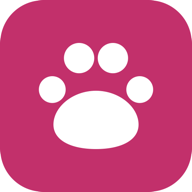
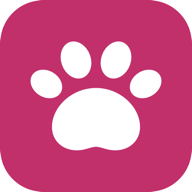
Redraw the paw, and set the name in the serif
The name is now set in Fraunces. That looks like it breaks the rule that the
serif means Dutch — but *doei* is a Dutch word, and reading it as one is the
whole point of calling the app that, so it belongs with the material rather
than with the furniture. Screen headings around it stay in the sans: they
are English, and they are interface.

The mark was four circles and a wide flat ellipse, at hand-picked
coordinates. Two of the circles overlapped, the gaps between the rest were
all different, and the pad met the outer toes — so it read as dots over a
blob rather than as a paw, and the bigger it was drawn the worse it got.

A paw is five separate shapes, which is a lot for something that has to
survive being 16px in a browser tab, and what holds it together is the
negative space. So the toes now sit on one arc at even angles, they are
ellipses turned to point along that arc rather than circles, and they are
graded — the middle pair larger, as a real paw is. The pad is a rounded
triangle on a wide base with a shallow dip in it: a sixth of a unit, so it
is invisible at favicon size and is what stops it being a blob beside the
app's name. The whole mark is centred on what is drawn rather than on the
box, so it doesn't hang low against text set next to it.

It is drawn larger everywhere: 38px beside the name, 80px on the opening
tile, and two thirds of the width of the installed app's icon, which is
regenerated from the same geometry.

diff --git a/src/core/paw.ts b/src/core/paw.ts
@@ -2,21 +2,69 @@
 // The app mark's geometry, kept here rather than in the UI layer so the
 // favicon (which core owns, alongside the theme) and the React component can
 // share one definition. Nothing in core imports from ui.
+//
+// A paw is five separate shapes, which is a lot for a mark that has to survive
+// being 16px in a browser tab. What holds it together is the negative space:
+// the gaps between the toes, and between the toes and the pad, are the thing
+// the eye actually reads. So the toes sit on one arc at even angles rather
+// than at hand-picked coordinates, they are ellipses turned to point along
+// that arc rather than circles, and they are graded — the two in the middle
+// larger than the two at the edges, as a real paw is.
+//
+// Drawn to fill the box with a hair of margin, because a mark that floats in
+// the middle of its own frame reads as small next to text set solid.
 // ---------------------------------------------------------------------------
 
-export const PAW_TOES = [
-  { cx: 4.6, cy: 11.6, r: 2.3 },
-  { cx: 9.2, cy: 6.2, r: 2.6 },
-  { cx: 15, cy: 6.2, r: 2.6 },
-  { cx: 19.6, cy: 11.6, r: 2.3 },
-] as const
+export interface Toe {
+  cx: number
+  cy: number
+  rx: number
+  ry: number
+  /** Degrees, turning the long axis to point outward along the arc. */
+  rot: number
+}
 
+/**
+ * Where the arc the toes sit on is centred, and how far out they sit. Set so
+ * the drawn mark is centred in the box rather than the box's geometry being:
+ * a paw is wider than it is tall, and the leftover space belongs equally above
+ * and below, or the mark hangs low against text set beside it.
+ */
+const ARC = { x: 12, y: 14.95, r: 9.1 }
+/** Angles from straight up. Even either side, wider at the edges. */
+const ANGLES = [-58, -20, 20, 58]
+
+function toeAt(deg: number, index: number): Toe {
+  const rad = (deg * Math.PI) / 180
+  // The middle pair carries the mark; the outer pair is smaller and set a
+  // little shorter, which is what stops the four reading as a row of dots.
+  const middle = index === 1 || index === 2
+  return {
+    cx: +(ARC.x + ARC.r * Math.sin(rad)).toFixed(2),
+    cy: +(ARC.y - ARC.r * Math.cos(rad)).toFixed(2),
+    rx: middle ? 2.3 : 2.05,
+    ry: middle ? 2.95 : 2.6,
+    rot: deg,
+  }
+}
+
+export const PAW_TOES: Toe[] = ANGLES.map(toeAt)
+
+/**
+ * The pad: a rounded triangle standing on a wide base, with a shallow dip in
+ * the middle of that base. The dip is a sixth of a unit at 16px — invisible
+ * there, and the thing that makes it a paw rather than a blob at the size it
+ * sits beside the app's name.
+ */
 export const PAW_PAD =
-  'M12.1 11.8c4 0 7.3 2.8 7.3 5.8 0 2.7-3 4.2-7.3 4.2s-7.3-1.5-7.3-4.2c0-3 3.3-5.8 7.3-5.8z'
+  'M12 10.75c3.8 0 6.85 3 6.85 6.05 0 2.25-1.75 3.65-3.85 3.65-1.35 0-2.2-.55-3-.55s-1.65.55-3 .55c-2.1 0-3.85-1.4-3.85-3.65C5.15 13.75 8.2 10.75 12 10.75z'
+
+const toePath = (t: Toe) =>
+  `<ellipse cx="${t.cx}" cy="${t.cy}" rx="${t.rx}" ry="${t.ry}" transform="rotate(${t.rot} ${t.cx} ${t.cy})"/>`
 
 /** The mark as a standalone SVG string, used for the favicon. */
 export function pawSvg(color: string, background?: string): string {
-  const toes = PAW_TOES.map((t) => `<circle cx="${t.cx}" cy="${t.cy}" r="${t.r}"/>`).join('')
+  const toes = PAW_TOES.map(toePath).join('')
   const bg = background ? `<rect width="24" height="24" rx="5.5" fill="${background}"/>` : ''
   return `<svg xmlns="http://www.w3.org/2000/svg" viewBox="0 0 24 24">${bg}<g fill="${color}">${toes}<path d="${PAW_PAD}"/></g></svg>`
 }

diff --git a/src/ui/type.ts b/src/ui/type.ts
@@ -3,14 +3,21 @@
 //
 //   FOCUS   the thing being taught at this moment — the word being asked
 //           about, the answer once revealed, the Dutch example sentence.
-//   TITLE   titles: the app's name and the heading of a screen.
+//   TITLE   headings and numbers: "Settings", "Done for today", the score.
 //   (body)  everything else, which is the default and needs no class:
 //           instructions, parts of speech, options, translations, buttons.
 //
 // The serif marks what you are meant to be looking at, not what language it
 // happens to be in — which is why the options are set in the sans even when
 // they are Dutch words. They are choices, not the subject.
+//
+// The app's name is the one heading set in the serif, and for the same reason
+// everything else in it is: *doei* is a Dutch word. Reading it as one is the
+// point of calling the app that, so it is set as the material and not as the
+// furniture. Screen headings around it stay in the sans — they are English,
+// and they are interface.
 // ---------------------------------------------------------------------------
 
 export const FOCUS = 'font-display font-semibold'
 export const TITLE = 'font-bold tracking-tight'
+export const WORDMARK = 'font-display font-semibold tracking-tight'

diff --git a/src/core/themes.ts b/src/core/themes.ts
@@ -146,14 +146,19 @@ function resolvedAccent(): string {
   const value = getComputedStyle(probe).color
   probe.remove()
   if (!value) return '#c2306b'
-  // Chrome hands back the oklch as written. A canvas normalises any colour it
-  // accepts to plain sRGB, which is what belongs in an SVG that has to survive
-  // being a data URI in a <link rel=icon>.
+  // Chrome hands back the oklch exactly as written, and setting a canvas's
+  // fillStyle to it hands it straight back too. Painting one pixel and reading
+  // it is the only way to get plain sRGB out, which is what belongs in an SVG
+  // that has to survive being a data URI in a <link rel=icon>.
   try {
-    const ctx = document.createElement('canvas').getContext('2d')
+    const canvas = document.createElement('canvas')
+    canvas.width = canvas.height = 1
+    const ctx = canvas.getContext('2d', { willReadFrequently: true })
     if (ctx) {
       ctx.fillStyle = value
-      return ctx.fillStyle as string
+      ctx.fillRect(0, 0, 1, 1)
+      const [r, g, b] = ctx.getImageData(0, 0, 1, 1).data
+      return `rgb(${r} ${g} ${b})`
     }
   } catch {
     /* Fall through to the raw value; a modern browser renders it anyway. */

diff --git a/src/ui/Welcome.tsx b/src/ui/Welcome.tsx
@@ -2,7 +2,7 @@ import { motion } from 'framer-motion'
 import { Button } from './Button'
 import { glide } from './motion'
 import { Paw } from './Paw'
-import { TITLE } from './type'
+import { WORDMARK } from './type'
 
 // ---------------------------------------------------------------------------
 // The first thing anyone sees. Opening on a question — "where are you now?" —
@@ -19,7 +19,7 @@ export function Welcome({ onBegin }: { onBegin: () => void }) {
         transition={{ ...glide, delay: 0.05 }}
         className="grid h-28 w-28 place-items-center rounded-[2rem] bg-primary shadow-3"
       >
-        <Paw className="h-16 w-16 text-on-primary" />
+        <Paw className="h-20 w-20 text-on-primary" />
       </motion.div>
 
       <motion.div
@@ -27,7 +27,7 @@ export function Welcome({ onBegin }: { onBegin: () => void }) {
         animate={{ opacity: 1, y: 0 }}
         transition={{ ...glide, delay: 0.18 }}
       >
-        <h1 className={`text-5xl ${TITLE}`}>Doei</h1>
+        <h1 className={`text-6xl leading-none ${WORDMARK}`}>Doei</h1>
         <p className="mt-3 text-lg text-balance text-on-surface-dim">
           Dutch, a few minutes a day.
         </p>

diff --git a/src/ui/Home.tsx b/src/ui/Home.tsx
@@ -10,7 +10,7 @@ import { Paw } from './Paw'
 import { useCanInstall } from './useCanInstall'
 import { ThemePicker } from './ThemePicker'
 import { pressable, quiet } from './motion'
-import { TITLE } from './type'
+import { TITLE, WORDMARK } from './type'
 
 interface Props {
   stats: SessionStats
@@ -51,9 +51,12 @@ export function Home({
     <div className="flex h-full flex-col justify-between px-6 py-10">
       <div>
         <div className="flex items-center justify-between gap-4">
-          <div className="flex items-center gap-2.5">
-            <Paw className="h-8 w-8 text-primary" />
-            <h1 className={`text-4xl ${TITLE}`}>Doei</h1>
+          {/* The paw is sized against the word's cap height, not against its
+              line box, and the gap is set from the mark's own edge — which is
+              why these are exact numbers rather than the spacing scale. */}
+          <div className="flex items-center gap-3">
+            <Paw className="h-[38px] w-[38px] text-primary" />
+            <h1 className={`text-[2.6rem] leading-none ${WORDMARK}`}>Doei</h1>
           </div>
 
           <div className="flex shrink-0 items-center gap-2">

diff --git a/src/ui/Paw.tsx b/src/ui/Paw.tsx
@@ -8,7 +8,14 @@ export function Paw({ className = '' }: { className?: string }) {
   return (
     <svg viewBox="0 0 24 24" className={className} fill="currentColor" aria-hidden="true">
       {PAW_TOES.map((t) => (
-        <circle key={`${t.cx}-${t.cy}`} cx={t.cx} cy={t.cy} r={t.r} />
+        <ellipse
+          key={`${t.cx}-${t.cy}`}
+          cx={t.cx}
+          cy={t.cy}
+          rx={t.rx}
+          ry={t.ry}
+          transform={`rotate(${t.rot} ${t.cx} ${t.cy})`}
+        />
       ))}
       <path d={PAW_PAD} />
     </svg>
